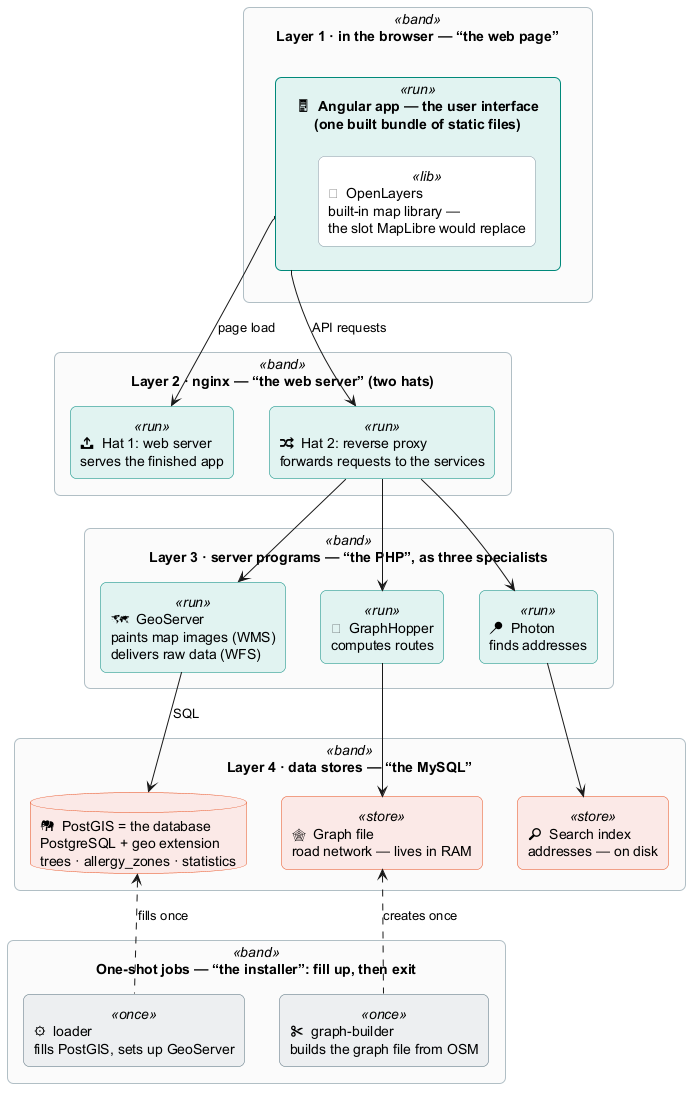
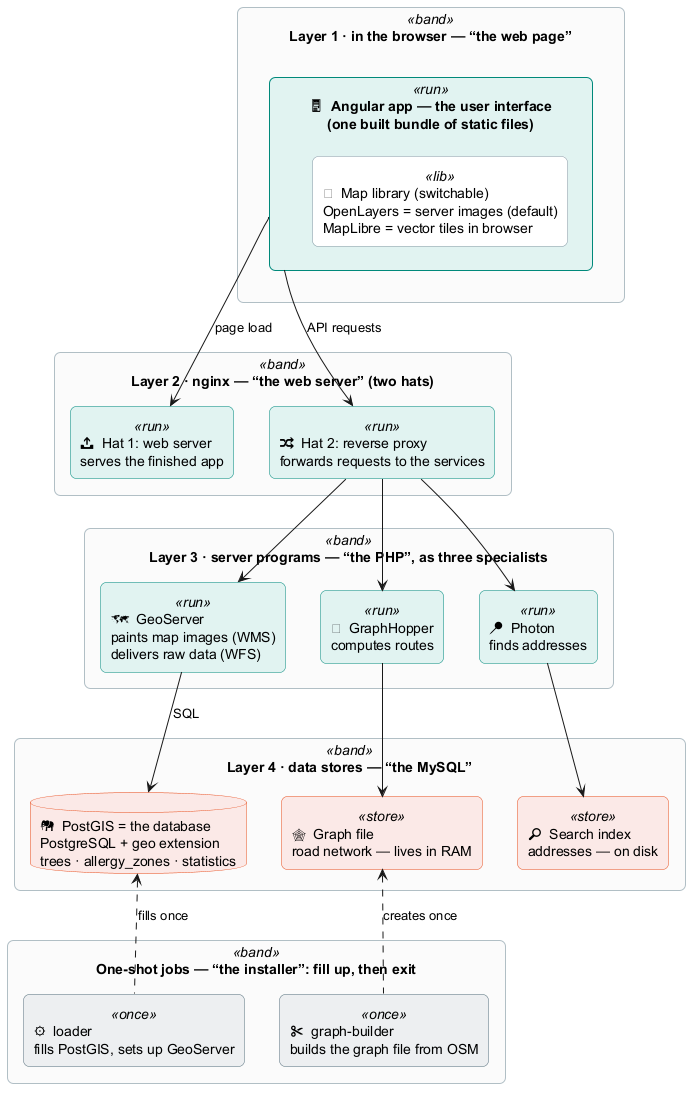
The BaumRadar WebGIS documentation is now up to date and also includes the MapLibre version.

diff --git a/webgis/client/src/app/map.service.ts b/webgis/client/src/app/map.service.ts
@@ -28,6 +28,10 @@ export class MapService {
   /** Aktiver Motor — fürs UI (Schalter-Zustand, Beta-Hinweis). */
   readonly engineKind = signal<EngineKind>(MapService.storedEngine());
 
+  /** Automatik-Signale: Gerät kann kein GPU-WebGL bzw. MapLibre ruckelt messbar. */
+  readonly gpuCaveat = signal(false);
+  readonly slowFrameMs = signal<number | null>(null);
+
   // Replay-Zustand für den Motor-Wechsel.
   private genera: ReadonlySet<string> = new Set();
   private cityId: string | null = null;
@@ -47,13 +51,29 @@ export class MapService {
   ): void {
     this.target = target;
     this.popupElement = popupElement;
-    this.callbacks = { onFeatureInfo, onRouteLoaded };
+    this.callbacks = {
+      onFeatureInfo,
+      onRouteLoaded,
+      onSlowRendering: (ms) => this.slowFrameMs.set(ms),
+    };
+    // Gespeicherte MapLibre-Wahl auf einem Gerät ohne GPU-WebGL: leise auf OL.
+    if (this.engineKind() === 'maplibre' && !MapService.webglOk()) {
+      this.engineKind.set('ol');
+      this.gpuCaveat.set(true);
+    }
     void this.mount(this.engineKind(), null);
   }
 
   /** Motor wechseln: Kamera mitnehmen, alten Motor abbauen, Zustand neu einspielen. */
   async switchEngine(kind: EngineKind): Promise<void> {
     if (kind === this.engineKind() || this.switching || !this.target) return;
+    // Harter Vorab-Test: ohne GPU-beschleunigtes WebGL wäre MapLibre eine Qual —
+    // Wechsel ablehnen und der App den Grund signalisieren (Hinweis-Banner).
+    if (kind === 'maplibre' && !MapService.webglOk()) {
+      this.gpuCaveat.set(true);
+      return;
+    }
+    this.slowFrameMs.set(null);
     this.switching = true;
     try {
       const view = this.engine?.viewState() ?? null;
@@ -82,6 +102,17 @@ export class MapService {
     if (this.markers.start || this.markers.end) engine.setRouteMarkers(this.markers.start, this.markers.end);
     if (this.directRoute) engine.drawDirectRoute(this.directRoute);
     if (this.route.length > 0) engine.drawRoute(this.route);
+  }
+
+  /** WebGL mit failIfMajorPerformanceCaveat: Software-Rendering zählt als Nein. */
+  private static webglOk(): boolean {
+    try {
+      const canvas = document.createElement('canvas');
+      const opts = { failIfMajorPerformanceCaveat: true };
+      return !!(canvas.getContext('webgl2', opts) ?? canvas.getContext('webgl', opts));
+    } catch {
+      return false;
+    }
   }
 
   private static storedEngine(): EngineKind {

diff --git a/webgis/client/src/app/app.html b/webgis/client/src/app/app.html
@@ -69,13 +69,13 @@
   </section>
 
   <section>
-    <label class="sec">Ansicht</label>
+    <label class="sec">Rendering</label>
     <!-- Tech-Demo-Schalter: gleiche Daten, zwei Auslieferungswege. -->
-    <div class="engine-toggle" role="radiogroup" aria-label="Karten-Ansicht">
+    <div class="engine-toggle" role="radiogroup" aria-label="Rendering">
       <button type="button" [class.active]="mapEngine() === 'ol'" (click)="setMapEngine('ol')"
-              title="OpenLayers: fertige Kartenbilder vom Server (WMS)">am Server gerendert</button>
+              title="OpenLayers: fertige Kartenbilder vom Server (WMS)">Server</button>
       <button type="button" [class.active]="mapEngine() === 'maplibre'" (click)="setMapEngine('maplibre')"
-              title="MapLibre: Vektorkacheln, im Browser gerendert (Beta)">im Browser <span class="thin">(Beta)</span></button>
+              title="MapLibre: Vektorkacheln, im Browser gerendert (Beta)">Browser <span class="thin">(lokal)</span></button>
     </div>
   </section>
 
@@ -300,6 +300,22 @@
 <!-- Schmal-Bildschirm-Hinweis: immer gerendert, solange nicht weggeklickt —
      ob er SICHTBAR ist, entscheidet allein die CSS-Media-Query (<= 700 px).
      So erscheint er auch, wenn ein Fenster erst nachträglich schmal wird. -->
+<!-- Automatik-Vorschlag: misst, schlägt vor — umgeschaltet wird nur per Klick. -->
+@if (!engineHintDismissed() && (gpuCaveat() || slowFrameMs() !== null)) {
+  <div class="engine-hint glass" role="status">
+    @if (gpuCaveat()) {
+      <span>Dein Ger&auml;t stellt kein GPU-beschleunigtes WebGL bereit &mdash;
+        die Browser-Ansicht w&uuml;rde ruckeln, es bleibt beim Server-Rendering.</span>
+      <button type="button" (click)="dismissEngineHint()">Verstanden</button>
+    } @else {
+      <span>Die Browser-Ansicht l&auml;uft auf diesem Ger&auml;t z&auml;h
+        (&#8776;{{ slowFrameMs() }} ms pro Bild). Zur Server-Ansicht wechseln?</span>
+      <button type="button" (click)="acceptEngineHint()">Wechseln</button>
+      <button type="button" class="ghost" (click)="dismissEngineHint()">So lassen</button>
+    }
+  </div>
+}
+
 @if (showMobileHint()) {
   <div class="mobile-hint glass" role="note">
     <span>&#128241; Dieses WebGIS ist f&uuml;r <strong>Desktop und Tablet</strong> gedacht

diff --git a/webgis/client/src/app/maplibre-engine.ts b/webgis/client/src/app/maplibre-engine.ts
@@ -61,7 +61,34 @@ export class MaplibreEngine implements MapEngine {
       }
 
       this.enableGpxDrop(target, cb.onRouteLoaded);
+      map.once('load', () => this.measureFrames(cb));
     });
+  }
+
+  /**
+   * Ehrliche Leistungsmessung statt Datenblatt-Raten: ~4 Sekunden lang wird pro
+   * Frame ein Repaint erzwungen und die Bildwiederholzeit gemessen. Liegt der
+   * Median über 33 ms (unter ~30 fps), meldet der Motor das der App — die
+   * schlägt dann den Server-Renderer vor, schaltet aber nie eigenmächtig um.
+   */
+  private measureFrames(cb: MapCallbacks): void {
+    if (!cb.onSlowRendering) return;
+    const deltas: number[] = [];
+    let last = performance.now();
+    const tick = (now: number) => {
+      deltas.push(now - last);
+      last = now;
+      if (!this.map) return; // Motor wurde inzwischen gewechselt — Messung verwerfen.
+      if (deltas.length < 240) {
+        this.map.triggerRepaint();
+        requestAnimationFrame(tick);
+        return;
+      }
+      const sorted = [...deltas].sort((a, b) => a - b);
+      const median = sorted[Math.floor(sorted.length / 2)];
+      if (median > 33) cb.onSlowRendering!(Math.round(median));
+    };
+    requestAnimationFrame(tick);
   }
 
   destroy(): void {

diff --git a/webgis/client/src/app/app.scss b/webgis/client/src/app/app.scss
@@ -266,12 +266,15 @@
   right: 16px;
   width: 300px;
   max-height: calc(100vh - 32px);
+  // Wächst der Inhalt über den Viewport (z. B. Routenplanung auf FullHD),
+  // scrollt das ganze Panel — sonst wären untere Abschnitte unerreichbar.
+  overflow-y: auto;
   display: flex;
   flex-direction: column;
   gap: 16px;
   padding: 16px;
   z-index: 5;
-  overflow: hidden;
+  overflow-x: hidden;
 
   section {
     display: flex;
@@ -294,6 +297,37 @@
   text-transform: uppercase;
   letter-spacing: 1px;
   color: var(--br-primary-container);
+}
+
+// Automatik-Vorschlag (Motor-Empfehlung): dezent unten links, wie der Mobil-Hinweis.
+.engine-hint {
+  position: fixed;
+  left: 12px;
+  bottom: 12px;
+  max-width: 420px;
+  z-index: 9;
+  display: flex;
+  align-items: center;
+  gap: 10px;
+  padding: 10px 12px;
+  font-size: 12.5px;
+
+  button {
+    flex: 0 0 auto;
+    padding: 6px 10px;
+    border: none;
+    border-radius: 8px;
+    background: var(--br-primary-bright);
+    color: #0b1a0b;
+    font-weight: 600;
+    cursor: pointer;
+
+    &.ghost {
+      background: transparent;
+      color: var(--br-on-glass-muted);
+      font-weight: 400;
+    }
+  }
 }
 
 // Schalter „Ansicht": zwei Segmente, aktives im Marken-Grün.

diff --git a/webgis/client/src/app/app.ts b/webgis/client/src/app/app.ts
@@ -292,6 +292,21 @@ export class App implements AfterViewInit {
   /** Aktiver Karten-Motor (fürs Schalter-UI). */
   readonly mapEngine = this.mapService.engineKind;
 
+  /** Automatik-Signale des MapService (GPU fehlt / MapLibre ruckelt messbar). */
+  readonly gpuCaveat = this.mapService.gpuCaveat;
+  readonly slowFrameMs = this.mapService.slowFrameMs;
+  /** Wechsel-Vorschlag beantwortet? (Pro Sitzung — die Messung läuft je Aktivierung neu.) */
+  readonly engineHintDismissed = signal(false);
+
+  dismissEngineHint(): void {
+    this.engineHintDismissed.set(true);
+  }
+
+  acceptEngineHint(): void {
+    this.engineHintDismissed.set(true);
+    this.setMapEngine('ol');
+  }
+
   /** Ansicht wechseln: serverseitig (OpenLayers/WMS) ↔ lokal (MapLibre/Vektorkacheln). */
   setMapEngine(kind: 'ol' | 'maplibre'): void {
     this.closePopup();

diff --git a/webgis/client/src/app/map-engine.ts b/webgis/client/src/app/map-engine.ts
@@ -14,6 +14,12 @@ export interface MapCallbacks {
   onFeatureInfo: (data: PopupData | null) => void;
   /** Name der per Drag&Drop geladenen GPX-Datei. */
   onRouteLoaded: (fileName: string) => void;
+  /**
+   * Automatik-Vorschlag: Der Motor meldet, dass er auf diesem Gerät zäh läuft
+   * (gemessene Bildwiederholzeiten, kein Datenblatt-Raten). Die App zeigt dann
+   * einen dezenten Wechsel-Hinweis — entschieden wird von Menschenhand.
+   */
+  onSlowRendering?: (medianFrameMs: number) => void;
 }
 
 /**

diff --git a/docs/glossary.md b/docs/glossary.md
@@ -58,7 +58,7 @@ Projekt. *(English version: [glossary_en.md](glossary_en.md))*
 
 **OpenLayers** — JavaScript-Kartenbibliothek im Web-Client: rendert die OSM-Grundkarte, die WMS-Layer, Marker und Routen und liefert Interaktionen (Klick, Drag&Drop). Wird bewusst ohne Angular-Wrapper genutzt; die Karte lebt außerhalb der Angular-Change-Detection. Rendert klassisch über Canvas 2D (mit wachsendem WebGL-Anteil) — das GPU-Gegenstück ist MapLibre.
 
-**MapLibre (GL JS / Native)** — Open-Source-Rendering-Bibliothek für Vektorkacheln, im Dezember 2020 als Fork von Mapbox GL JS entstanden, nachdem Mapbox proprietär wurde. Rendert per WebGL (der Browser-Schnittstelle zur Grafikkarte) direkt auf der GPU: stufenloses Zoomen, Rotieren, 3D, Globus; das Aussehen kommt aus einer Style-Spezifikation. „GL JS" läuft im Browser, „Native" auf Android/iOS/Desktop. Kein WFS, kein GetFeatureInfo, im Kern nur Web-Mercator — im Projekt darum bewusst **nicht** eingesetzt: Das WebGIS lebt von WFS+CQL, GetFeatureInfo und GPX, alles OpenLayers-Heimspiel. (OpenLayers kann MVT-Kacheln übrigens auch lesen, samt MapLibre-Styles via `ol-mapbox-style`.)
+**MapLibre (GL JS / Native)** — Open-Source-Rendering-Bibliothek für Vektorkacheln, im Dezember 2020 als Fork von Mapbox GL JS entstanden, nachdem Mapbox proprietär wurde. Rendert per WebGL (der Browser-Schnittstelle zur Grafikkarte) direkt auf der GPU: stufenloses Zoomen, Rotieren, 3D, Globus; das Aussehen kommt aus einer Style-Spezifikation. „GL JS" läuft im Browser, „Native" auf Android/iOS/Desktop. Kein WFS, kein GetFeatureInfo, im Kern nur Web-Mercator. Seit der Zwei-Renderer-Demo ist MapLibre der **zweite Karten-Motor** des WebGIS (Schalter „Rendering: Browser (lokal)", Beta): Er liest Vektorkacheln aus dem GeoServer-Kachel-Cache und filtert Gattungen als Stil-Filter ohne Server-Umlauf. Standard bleibt OpenLayers — WFS+CQL, GetFeatureInfo und GPX sind dessen Heimspiel.
 
 **basemap.at** — Die „Verwaltungsgrundkarte von Österreich": flächendeckende Hintergrundkarte aus amtlichen Geodaten, betrieben von den GIS-Stellen der neun Bundesländer (geoland.at) mit Städtebund, ÖVDAT/GIP.at und BEV, Projektleitung derzeit Stadt Wien; Lizenz CC-BY 4.0. Ausgeliefert klassisch als WMTS-Raster (EPSG:3857 und 31256) und zunehmend als Vektorkacheln samt Styles; der Relaunch 2026 stellt auf einen täglich aktualisierten Vektor-Workflow um. Im Projekt nicht eingesetzt (Hintergrund ist OSM) — aber das österreichische Anschauungsbeispiel für den Umstieg Raster → Vektor.
 
@@ -90,9 +90,9 @@ Projekt. *(English version: [glossary_en.md](glossary_en.md))*
 
 **SLD (Styled Layer Descriptor)** — XML-Format, das WMS-Layern ihr Aussehen gibt (Symbole, Farben, Maßstabsregeln). Die gelben Baum-Punkte und roten Zonen kommen aus zwei SLD-Dateien, die der Loader mit provisioniert.
 
-**Style-Spezifikation (MapLibre/Mapbox Style Spec)** — JSON-Dokument, das einer Vektorkachel-Karte ihr Aussehen gibt: Quellen, Layer, datengetriebene Ausdrücke — ausgewertet erst im Client. Das clientseitige Gegenstück zum serverseitigen SLD. Im Projekt nicht genutzt; unser Styling liegt als SLD beim GeoServer.
+**Style-Spezifikation (MapLibre/Mapbox Style Spec)** — JSON-Dokument, das einer Vektorkachel-Karte ihr Aussehen gibt: Quellen, Layer, datengetriebene Ausdrücke — ausgewertet erst im Client. Das clientseitige Gegenstück zum serverseitigen SLD. Im Projekt nutzt sie der MapLibre-Motor (Browser-Rendering); die Server-Ansicht styled weiter per SLD — optische Änderungen brauchen seither beide Welten.
 
-**Vektorkacheln / MVT (Mapbox Vector Tiles)** — Kacheln, die statt fertiger Bilder **rohe Geometrien + Attribute** enthalten (kompakt als Protobuf); gerendert wird erst im Browser (MapLibre), gestylt per Style-Spezifikation. Offener De-facto-Industriestandard von Mapbox, aber **kein ratifizierter OGC-Standard** — die OGC deckt den Kachel-Teil über „OGC API – Tiles" ab, das MVT ausliefern kann. Vorteile: winzige Dateien, statisch/per CDN (Content Delivery Network) auslieferbar, Umstylen ohne neuen Kachel-Cache. Im Projekt nicht genutzt; GeoServer könnte MVT per Extension erzeugen — das wäre der eigentliche Gewinnschritt einer MapLibre-Portierung.
+**Vektorkacheln / MVT (Mapbox Vector Tiles)** — Kacheln, die statt fertiger Bilder **rohe Geometrien + Attribute** enthalten (kompakt als Protobuf); gerendert wird erst im Browser (MapLibre), gestylt per Style-Spezifikation. Offener De-facto-Industriestandard von Mapbox, aber **kein ratifizierter OGC-Standard** — die OGC deckt den Kachel-Teil über „OGC API – Tiles" ab, das MVT ausliefern kann. Vorteile: winzige Dateien, statisch/per CDN (Content Delivery Network) auslieferbar, Umstylen ohne neuen Kachel-Cache. Im Projekt seit der Zwei-Renderer-Demo im Einsatz: GeoServer erzeugt MVT per `vectortiles`-Extension, und der Loader rechnet Generalisierungs-Stufen vor (Stadtpunkte → Rasterzellen mit dominanter Gattung → Einzelbäume) — eine Wiener Übersichtskachel schrumpft damit von ~4,5 MB roh auf ~1,5 kB.
 
 **GPX (GPS Exchange Format)** — XML-Austauschformat für Routen und Tracks. Die Android-App exportiert geplante Routen als GPX (z. B. für Navigations-Apps); der Web-Client nimmt GPX-Dateien per Drag&Drop auf die Karte an.
 

diff --git a/docs/glossary_en.md b/docs/glossary_en.md
@@ -58,7 +58,7 @@ this project. *(Deutsche Fassung: [glossary.md](glossary.md))*
 
 **OpenLayers** — JavaScript map library in the web client: renders the OSM base map, the WMS layers, markers and routes, and provides interactions (click, drag & drop). Used deliberately without an Angular wrapper; the map lives outside Angular's change detection. Renders classically via Canvas 2D (with a growing WebGL share) — the GPU counterpart is MapLibre.
 
-**MapLibre (GL JS / Native)** — Open-source rendering library for vector tiles, forked from Mapbox GL JS in December 2020 after Mapbox went proprietary. Renders on the GPU via WebGL (the browser's graphics-card interface): continuous zoom, rotation, 3D, globe; the appearance comes from a style specification. "GL JS" runs in the browser, "Native" on Android/iOS/desktop. No WFS, no GetFeatureInfo, essentially web Mercator only — which is why this project deliberately does **not** use it: the WebGIS lives on WFS+CQL, GetFeatureInfo and GPX, all home turf for OpenLayers. (OpenLayers can read MVT tiles too, by the way, including MapLibre styles via `ol-mapbox-style`.)
+**MapLibre (GL JS / Native)** — Open-source rendering library for vector tiles, forked from Mapbox GL JS in December 2020 after Mapbox went proprietary. Renders on the GPU via WebGL (the browser's graphics-card interface): continuous zoom, rotation, 3D, globe; the appearance comes from a style specification. "GL JS" runs in the browser, "Native" on Android/iOS/desktop. No WFS, no GetFeatureInfo, essentially web Mercator only. Since the dual-renderer demo, MapLibre is the WebGIS's **second map engine** (toggle "Rendering: Browser (local)", beta): it reads vector tiles from the GeoServer tile cache and filters genera as pure style filters without a server round trip. OpenLayers remains the default — WFS+CQL, GetFeatureInfo and GPX are its home turf.
 
 **basemap.at** — Austria's "administrative base map": a nationwide background map built from official government geodata, run by the GIS offices of the nine federal states (geoland.at) together with the Association of Cities and Towns, ÖVDAT/GIP.at and the BEV, currently led by the City of Vienna; licensed CC-BY 4.0. Delivered classically as WMTS raster (EPSG:3857 and 31256) and increasingly as vector tiles with styles; the 2026 relaunch moves it to a daily-updated vector workflow. Not used in this project (our background is OSM) — but Austria's showcase for the raster-to-vector transition.
 
@@ -90,9 +90,9 @@ this project. *(Deutsche Fassung: [glossary.md](glossary.md))*
 
 **SLD (Styled Layer Descriptor)** — XML format that gives WMS layers their appearance (symbols, colours, scale rules). The yellow tree dots and red zones come from two SLD files the loader provisions.
 
-**Style specification (MapLibre/Mapbox style spec)** — JSON document that gives a vector-tile map its appearance: sources, layers, data-driven expressions — evaluated only in the client. The client-side counterpart of server-side SLD. Not used here; our styling lives as SLD on the GeoServer.
+**Style specification (MapLibre/Mapbox style spec)** — JSON document that gives a vector-tile map its appearance: sources, layers, data-driven expressions — evaluated only in the client. The client-side counterpart of server-side SLD. Used here by the MapLibre engine (browser rendering); the server view keeps styling via SLD — visual changes now touch both worlds.
 
-**Vector tiles / MVT (Mapbox Vector Tiles)** — Tiles containing **raw geometries + attributes** instead of finished images (compact Protobuf); rendering happens only in the browser (MapLibre), styled via a style specification. An open de-facto industry standard by Mapbox, but **not a ratified OGC standard** — OGC covers the tiling side through "OGC API – Tiles", which can deliver MVT. Benefits: tiny files, servable statically/via CDN (content delivery network), restyling without rebuilding a tile cache. Not used here; GeoServer could emit MVT via an extension — which would be the actual pay-off step of any MapLibre port.
+**Vector tiles / MVT (Mapbox Vector Tiles)** — Tiles containing **raw geometries + attributes** instead of finished images (compact Protobuf); rendering happens only in the browser (MapLibre), styled via a style specification. An open de-facto industry standard by Mapbox, but **not a ratified OGC standard** — OGC covers the tiling side through "OGC API – Tiles", which can deliver MVT. Benefits: tiny files, servable statically/via CDN (content delivery network), restyling without rebuilding a tile cache. In use since the dual-renderer demo: GeoServer emits MVT via the `vectortiles` extension, and the loader precomputes generalisation stages (city points → grid cells with dominant genus → individual trees) — one Vienna overview tile shrinks from ~4.5 MB raw to ~1.5 kB.
 
 **GPX (GPS Exchange Format)** — XML interchange format for routes and tracks. The Android app exports planned routes as GPX (e.g. for navigation apps); the web client accepts GPX files via drag & drop onto the map.
 

diff --git a/docs/webgis_architecture.md b/docs/webgis_architecture.md
@@ -20,7 +20,7 @@ Wer bei den vielen Akronymen den Faden verliert: Der ganze Stack ist die vertrau
 | „das MySQL" (Datenspeicher) | **PostGIS** · Graph-Datei · Suchindex | Nur GeoServer hängt an der Datenbank (PostgreSQL + Geo-Erweiterung); GraphHopper liest seinen Graphen ins RAM, Photon seinen Index von der Platte — ein Speicher pro Spezialist. |
 | Installationsprogramm | **loader** · **graph-builder** | Einmal-Jobs: befüllen Datenbank bzw. Graph-Datei und beenden sich — im Anfrageweg kommen sie nie vor. |
 
-Merksatz zur MapLibre-Frage: Ein Umstieg ersetzt **genau ein Kästchen** — die Karten-Bibliothek in der Angular-App. Alle Ebenen darunter blieben unverändert (sinnvoll würde er erst, wenn GeoServer zusätzlich Vektorkacheln liefert — siehe [Glossar](glossary.md)).
+Merksatz zur MapLibre-Frage: Der Tausch betrifft **genau ein Kästchen** — die Karten-Bibliothek in der Angular-App. Genau das ist seit der Zwei-Renderer-Demo eingebaut: Der Panel-Schalter **„Rendering: Server | Browser (lokal)"** wechselt live zwischen OpenLayers (WMS-Bilder) und MapLibre (Vektorkacheln aus GeoServers Kachel-Cache, vom Loader in Zoom-Stufen generalisiert: Stadtpunkte → Rasterzellen mit dominanter Gattung → Einzelbäume). Kamera, Filter und Route wandern beim Wechsel mit; ein Automatik-Hinweis schlägt die Server-Ansicht vor, wenn GPU-WebGL fehlt oder die Messung dauerhaft unter ~30 fps liegt. Alle Ebenen darunter bleiben unverändert — siehe [Glossar](glossary.md).
 
 ---
 

diff --git a/docs/webgis_architecture_en.md b/docs/webgis_architecture_en.md
@@ -20,7 +20,7 @@ If the acronyms make you lose the thread: the whole stack is the familiar chain 
 | "the MySQL" (data stores) | **PostGIS** · graph file · search index | Only GeoServer talks to the database (PostgreSQL + geo extension); GraphHopper loads its graph into RAM, Photon reads its index from disk — one store per specialist. |
 | Installer | **loader** · **graph-builder** | One-shot jobs: they fill the database resp. the graph file and exit — they never appear on the request path. |
 
-Mnemonic for the MapLibre question: a switch would replace **exactly one box** — the map library inside the Angular app. Every layer below stays untouched (it only becomes worthwhile once GeoServer also serves vector tiles — see the [glossary](glossary_en.md)).
+Mnemonic for the MapLibre question: the swap concerns **exactly one box** — the map library inside the Angular app. That is exactly what the dual-renderer demo ships: the panel toggle **"Rendering: Server | Browser (local)"** switches live between OpenLayers (WMS images) and MapLibre (vector tiles from GeoServer's tile cache, generalised by the loader in zoom stages: city points → grid cells with dominant genus → individual trees). Camera, filters and route carry over on switch; an automatic hint suggests the server view when GPU WebGL is missing or measured frame times stay below ~30 fps. Every layer below stays untouched — see the [glossary](glossary_en.md).
 
 ---
 

diff --git a/webgis/README.md b/webgis/README.md
@@ -219,6 +219,7 @@ mvn test -Pit
 - [x] Phase 4 – GraphHopper-Routing (Insel-Graph, Schlauch-Zonen-Vermeidung per Custom-Model mit Konvergenz + Querungs-Zähler + Direktrouten-Vergleich, Start/Ziel per Klick **oder** Adresssuche)
 - [x] Geocoding – Photon aus den pro-Stadt-Häppchen des Katalogs (lokal, `CITY_FILTER`-bewusst; Fallback photon.komoot.io)
 - [x] Phase 5 – Doku: [Architektur (DE)](../docs/webgis_architecture.md) / [EN](../docs/webgis_architecture_en.md) inkl. Diagrammen + Lessons Learned, Verlinkung im Haupt-README
+- [x] Phase 6 – Zwei Renderer, ein Unterbau: Panel-Schalter **„Rendering: Server | Browser (lokal)"** wechselt live zwischen OpenLayers (WMS-Bilder vom Server) und MapLibre GL (Vektorkacheln aus GeoServers Kachel-Cache, Beta). Der Loader rechnet dafür Generalisierungs-Stufen vor (Stadtpunkte → Rasterzellen mit dominanter Gattung → Einzelbäume — eine Wiener Übersichtskachel schrumpft von ~4,5 MB auf ~1,5 kB); Kamera/Filter/Route wandern beim Wechsel mit, Gattungsfilter laufen in der Browser-Ansicht ohne Server-Umlauf, und ein Automatik-Hinweis schlägt die Server-Ansicht vor, wenn GPU-WebGL fehlt oder die gemessenen Bildzeiten dauerhaft über ~33 ms liegen.
 
 Die ausführliche Architektur-Dokumentation (Datenweg, Routing, Geocoding, Stolpersteine):
 **[docs/webgis_architecture.md](../docs/webgis_architecture.md)** · [English version](../docs/webgis_architecture_en.md)

diff --git a/webgis/README_en.md b/webgis/README_en.md
@@ -220,6 +220,7 @@ mvn test -Pit
 - [x] Phase 4 – GraphHopper routing (island graph, tube-zone avoidance via custom model with convergence + crossing counter + direct-route comparison, start/destination by click **or** address search)
 - [x] Geocoding – Photon from the catalog's per-city slices (local, `CITY_FILTER`-aware; fallback photon.komoot.io)
 - [x] Phase 5 – docs: [architecture (DE)](../docs/webgis_architecture.md) / [EN](../docs/webgis_architecture_en.md) incl. diagrams + lessons learned, linked from the main README
+- [x] Phase 6 – two renderers, one backbone: the panel toggle **"Rendering: Server | Browser (local)"** switches live between OpenLayers (server-rendered WMS images) and MapLibre GL (vector tiles from GeoServer's tile cache, beta). The loader precomputes generalisation stages for it (city points → grid cells with dominant genus → individual trees — one Vienna overview tile shrinks from ~4.5 MB to ~1.5 kB); camera/filters/route carry over on switch, genus filters run without a server round trip in the browser view, and an automatic hint suggests the server view when GPU WebGL is missing or measured frame times stay above ~33 ms.
 
 The detailed architecture documentation (data path, routing, geocoding, pitfalls):
 **[docs/webgis_architecture_en.md](../docs/webgis_architecture_en.md)** · [Deutsche Fassung](../docs/webgis_architecture.md)
